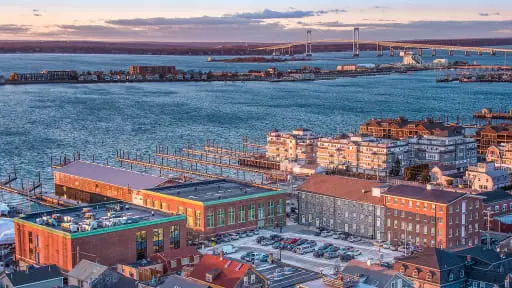
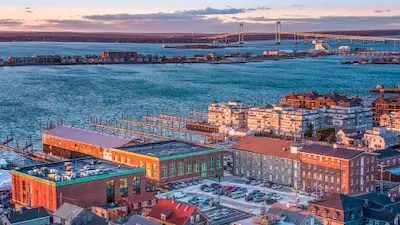
further optimizing IYRS campus picture

diff --git a/src/pages/faq.html b/src/pages/faq.html
@@ -43,8 +43,8 @@
           src="/assets/images/iyrs-campus-ariel.webp"
           alt="Ariel photograph of IYRS"
           class="w-2/5 inline-block"
-          height="512"
-          height="288"
+          height="400"
+          height="225"
         />
         <iframe
           src="https://www.google.com/maps/embed?pb=!1m18!1m12!1m3!1d2989.075093525323!2d-71.31748052396287!3d41.48097167128812!2m3!1f0!2f0!3f0!3m2!1i1024!2i768!4f13.1!3m3!1m2!1s0x89e5af66d0f22e81%3A0xf02e59b6f5959263!2sIYRS%20School%20of%20Technology%20and%20Trades!5e0!3m2!1sen!2sus!4v1683505272719!5m2!1sen!2sus"
